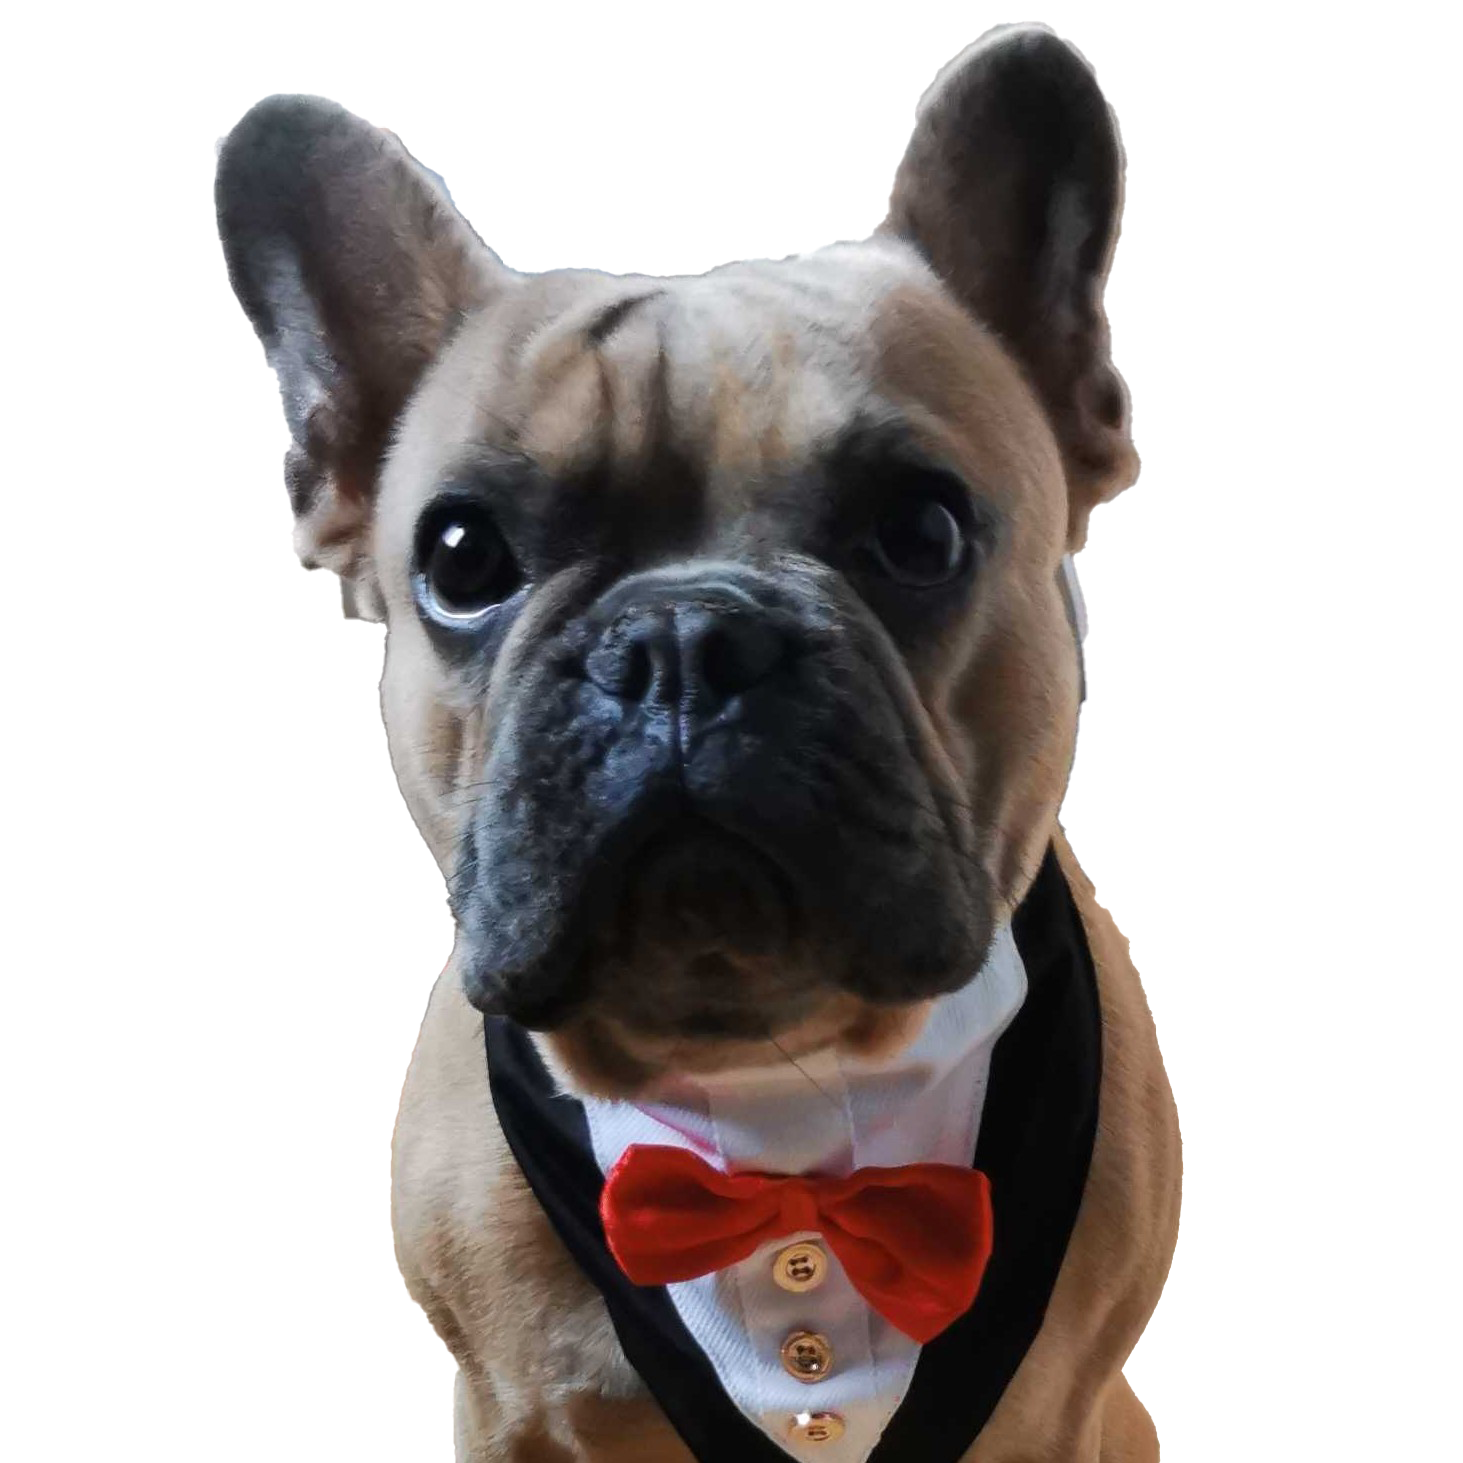
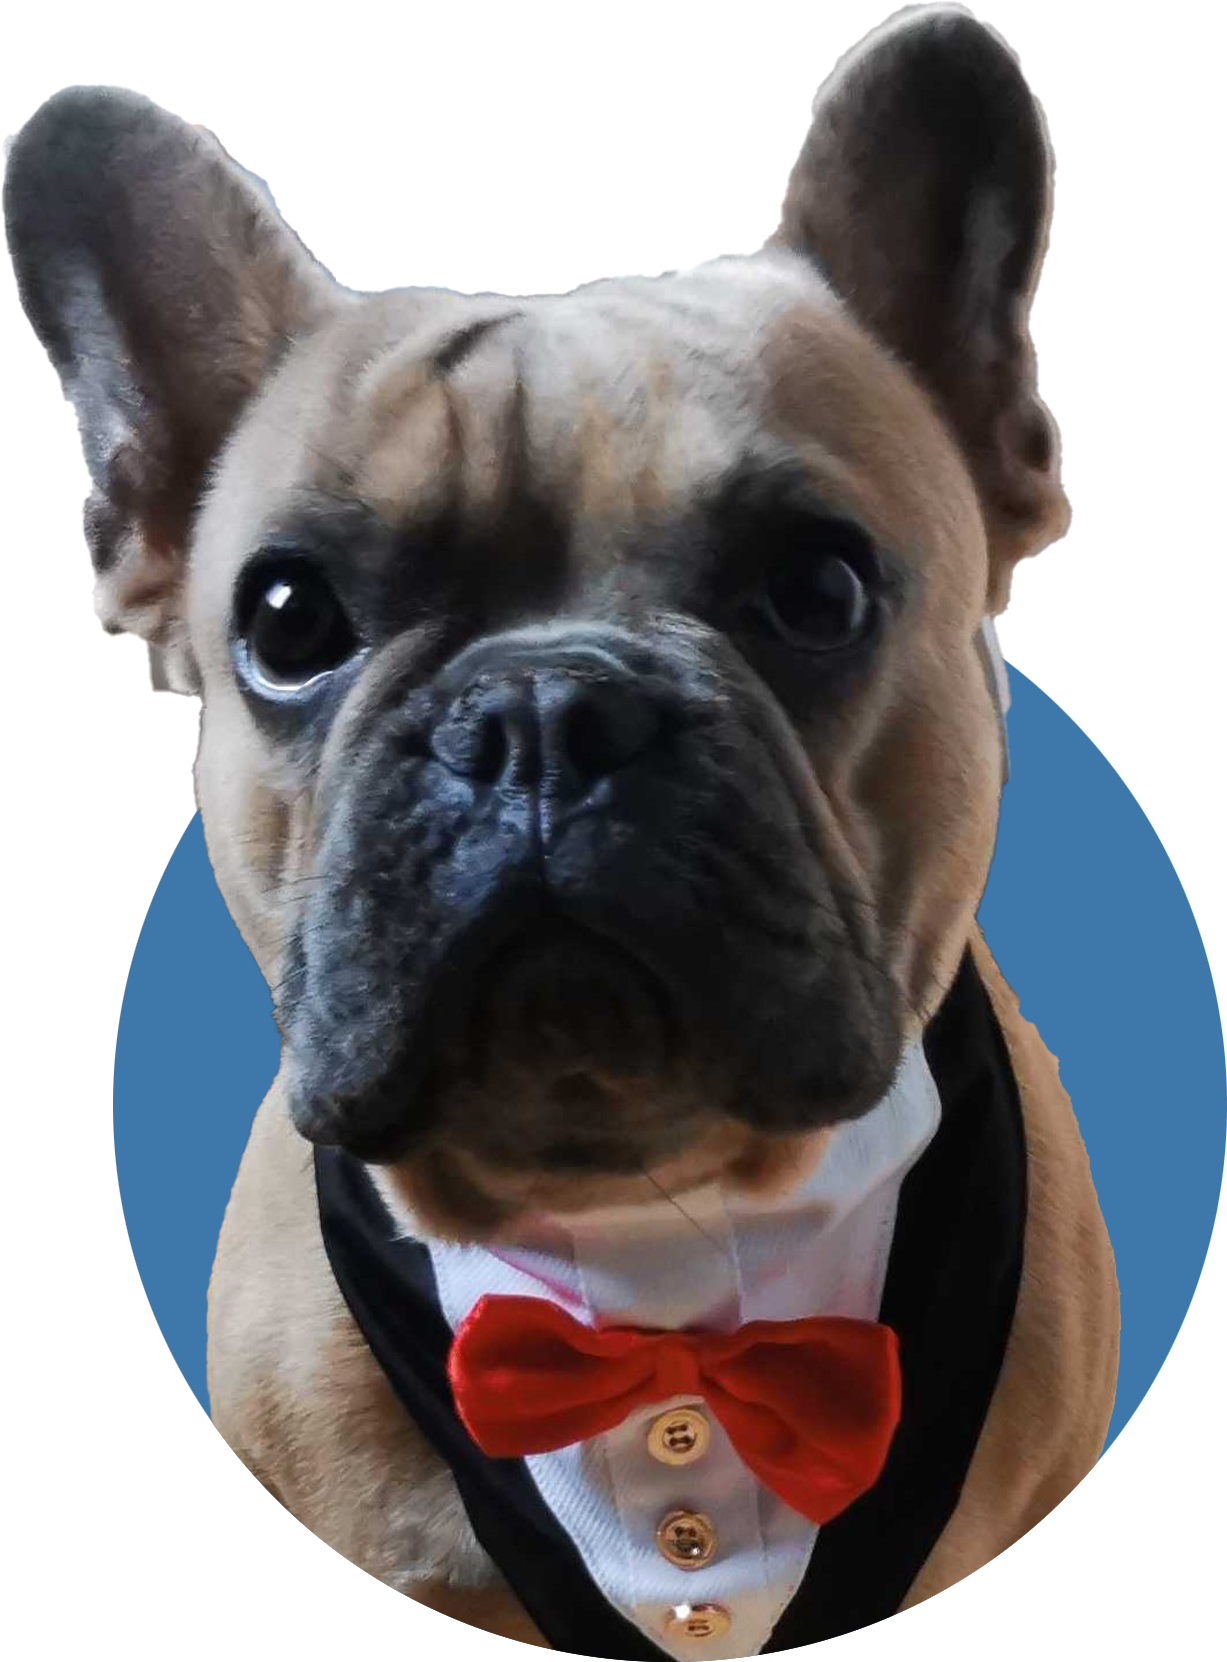
besseres ace bild

diff --git a/src/pages/Home/home.scss b/src/pages/Home/home.scss
@@ -50,13 +50,19 @@
             .welcome-circle-picture {
                 height: 150px;
                 width: 150px;
-                overflow: hidden;
-                border-radius: 50%;
-                background-color: $dblue;
+                // overflow: hidden;
+                // border-radius: 50%;
+                // background-color: $dblue;
                 margin: {
                     top: 3.2rem;
                 }
+                padding: {
+                    left: 30px;
+                }
                 @media (min-width: 992px) {
+                    padding: {
+                        left: 60px;
+                    }
                     width: 30rem;
                     height: 30rem;
                 }

diff --git a/src/pages/NotFound/NotFound.jsx b/src/pages/NotFound/NotFound.jsx
@@ -1,5 +1,5 @@
 import { Link } from "react-router-dom";
-import AceHallo from "/public/images/tiere/ace_smoking_no_BG.png";
+import AceHallo from "/src/assets/images/tiere/ace_smoking_no_BG.png";
 const NotFound = () => {
     return (
         <div className="center">
